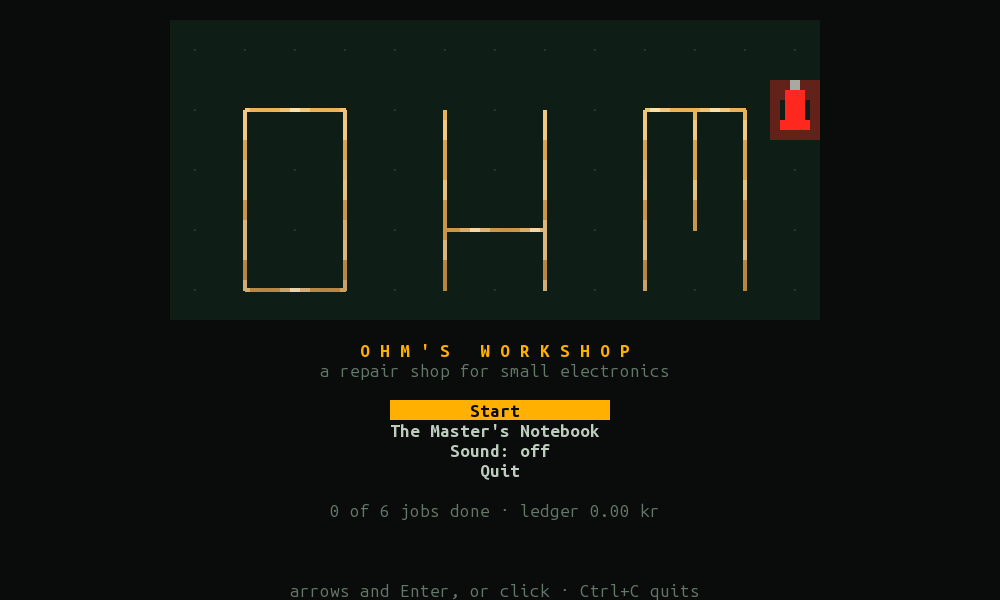
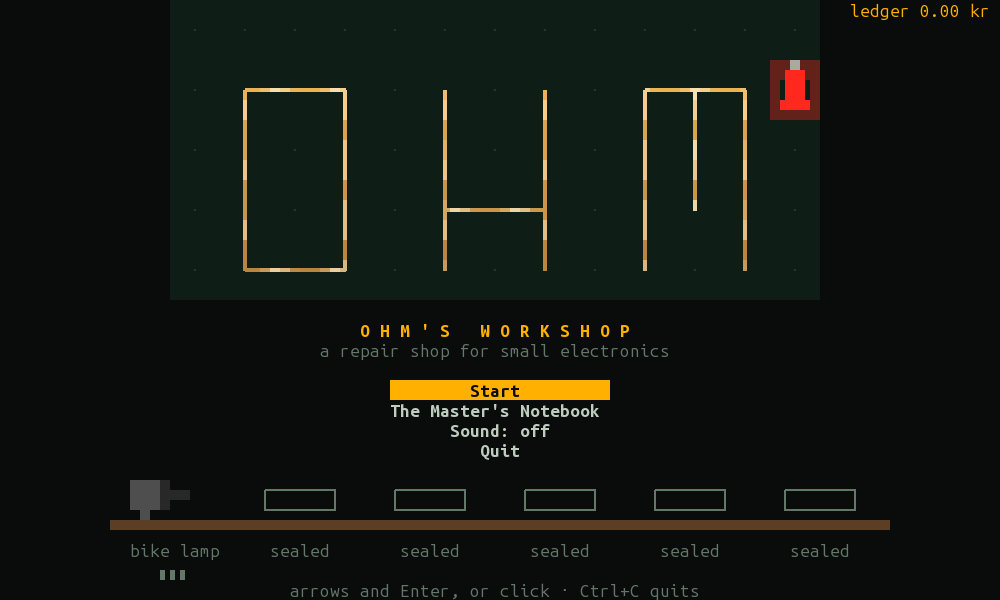
The shelf: every job as a gadget on the launch page
Dark until solved, then lit with a slow glow and its ticks underneath;
jobs still to come are sealed letters. Clicking a gadget opens its job.
The ledger moves to the corner, as on the desk.

diff --git a/src/app.rs b/src/app.rs
@@ -117,6 +117,8 @@ pub struct App {
     message: Option<(String, f64)>,
     /// Sound as the player last set it, for the save file (`--mute` alone doesn't stick).
     sound_off: bool,
+    /// The gadget on the launch page's shelf under the mouse.
+    shelf_hover: Option<usize>,
     /// The board and drawers as last seen, and when they last changed: a save follows a
     /// couple of seconds after the last edit.
     seen: (Board, Vec<Item>),
@@ -234,6 +236,7 @@ impl App {
             message: None,
             unsolvable: false,
             sound_off: progress.muted,
+            shelf_hover: None,
             seen: (Board::new(1, 1), Vec::new()),
             changed_at: None,
             area: Rect::new(0, 0, render::MIN_W, render::MIN_H),
@@ -900,10 +903,33 @@ impl App {
         }
     }
 
+    fn shelf_items(&self) -> Vec<render::ShelfItem> {
+        (0..self.jobs.len())
+            .map(|i| render::ShelfItem { id: self.jobs[i].id.clone(), arrived: self.unlocked(i), solved: self.solved[i], ticks: self.marks(i) })
+            .collect()
+    }
+
     fn title_act(&mut self, a: Act) {
         let menu = self.menu();
         let rects = render::title_items(self.area, menu.len());
         let at = |x: u16, y: u16| rects.iter().position(|r| render::in_rect(*r, x, y));
+        let shelf = render::shelf_slots(self.area, self.jobs.len());
+        let on_shelf = |x: u16, y: u16| shelf.iter().position(|r| render::in_rect(*r, x, y));
+        if let Act::Hover(x, y) = a {
+            self.shelf_hover = on_shelf(x, y);
+        }
+        // A gadget on the shelf opens its job on the desk.
+        if let Act::Down(x, y, false) = a
+            && let Some(i) = on_shelf(x, y)
+        {
+            if self.unlocked(i) {
+                self.open_job(i);
+                self.screen = Screen::Desk;
+            } else {
+                self.audio.play(Sfx::Denied);
+            }
+            return;
+        }
         match a {
             Act::Move(Dir::N) | Act::PrevSlot => self.title_sel = (self.title_sel + menu.len() - 1) % menu.len(),
             Act::Move(Dir::S) | Act::NextSlot => self.title_sel = (self.title_sel + 1) % menu.len(),
@@ -1373,9 +1399,9 @@ impl App {
     pub fn draw(&self, buf: &mut Buffer) {
         let area = self.area;
         if self.screen == Screen::Title {
-            let solved = self.solved.iter().filter(|&&s| s).count();
-            let line = format!("{solved} of {} jobs done · ledger {:.2} kr", self.jobs.len(), self.ledger);
-            render::title(buf, area, &self.menu().into_iter().map(|m| m.1).collect::<Vec<_>>(), self.title_sel, &line, self.time);
+            let line = format!("ledger {:.2} kr", self.ledger);
+            let shelf = self.shelf_items();
+            render::title(buf, area, &self.menu().into_iter().map(|m| m.1).collect::<Vec<_>>(), self.title_sel, &line, &shelf, self.shelf_hover, self.time);
             return;
         }
         let Some(l) = self.layout() else {
@@ -1846,6 +1872,20 @@ mod tests {
             a.update(0.016);
         }
         assert_eq!(a.changed_at, None, "never saved");
+    }
+
+    #[test]
+    fn a_gadget_on_the_shelf_opens_its_job_and_a_sealed_one_stays_shut() {
+        let mut a = app();
+        a.screen = Screen::Title;
+        a.solved[0] = true;
+        let slots = render::shelf_slots(a.area, a.jobs.len());
+        // The porch lamp has arrived (the bike lamp is solved); the doorbells haven't.
+        a.act(Act::Down(slots[2].x + 2, slots[2].y, false));
+        assert_eq!(a.screen, Screen::Title);
+        a.act(Act::Down(slots[1].x + 2, slots[1].y, false));
+        assert_eq!(a.screen, Screen::Desk);
+        assert_eq!(a.current, 1);
     }
 
     #[test]

diff --git a/CLAUDE.md b/CLAUDE.md
@@ -402,9 +402,11 @@ press E to flip it). Neither one is the "real" input with the other added on lat
   the difference against your best. The battery tick earns a tip of a tenth of the fee, once.
   The report compares your build with the master's line by line. Saved per job as
   `best ID PROFIT thrifty frugal`.
+- **The shelf** (built 2026-10-09): every job is a small half-block gadget on a plank on the
+  launch page, dark until solved, then lit with a slow glow, its ticks underneath; jobs not yet
+  arrived are sealed letters. Clicking a gadget opens its job. Pictures in `shelf_art`.
 - **Later, proposed:** money buys workshop things (bench supply, a second probe, bigger drawers,
-  desk decorations; never the learning), and a shelf of finished gadgets on the launch page.
-  For chip jobs, program length as a fourth tick. No server, so no global histograms.
+  desk decorations; never the learning). For chip jobs, program length as a fourth tick. No server, so no global histograms.
 - **Prices with real choices:** a job should offer a dearer easy part and a cheaper clever one.
   In chapter 1 only the café sign does (four 100 Ω 1 W side by side, 1.20 kr, against one
   22 Ω 2 W, 1.50 kr); elsewhere every honest answer costs the same and the parts tick only
@@ -440,7 +442,8 @@ levels, each with its reason); ours is written fresh.
 ## The launch page (built 2026-10-09, David asked 2026-10-08)
 
 The first screen: the title drawn as copper traces with current rippling through the letters,
-and a menu: Start or Continue, The Master's Notebook, Sound on/off, Quit (no bare `q`). Esc on
+a menu: Start or Continue, The Master's Notebook, Sound on/off, Quit (no bare `q`), the shelf of
+gadgets underneath and the ledger in the corner. Esc on
 the desk with nothing in hand comes back here. Jobs are picked in the inbox (click, or PgUp and
 PgDn); each unlocks when the one before is solved, and keeps its board while you visit another.
 Everything clickable, keys shown. Fixed-size art centred in the terminal (pillar 6: a bigger
